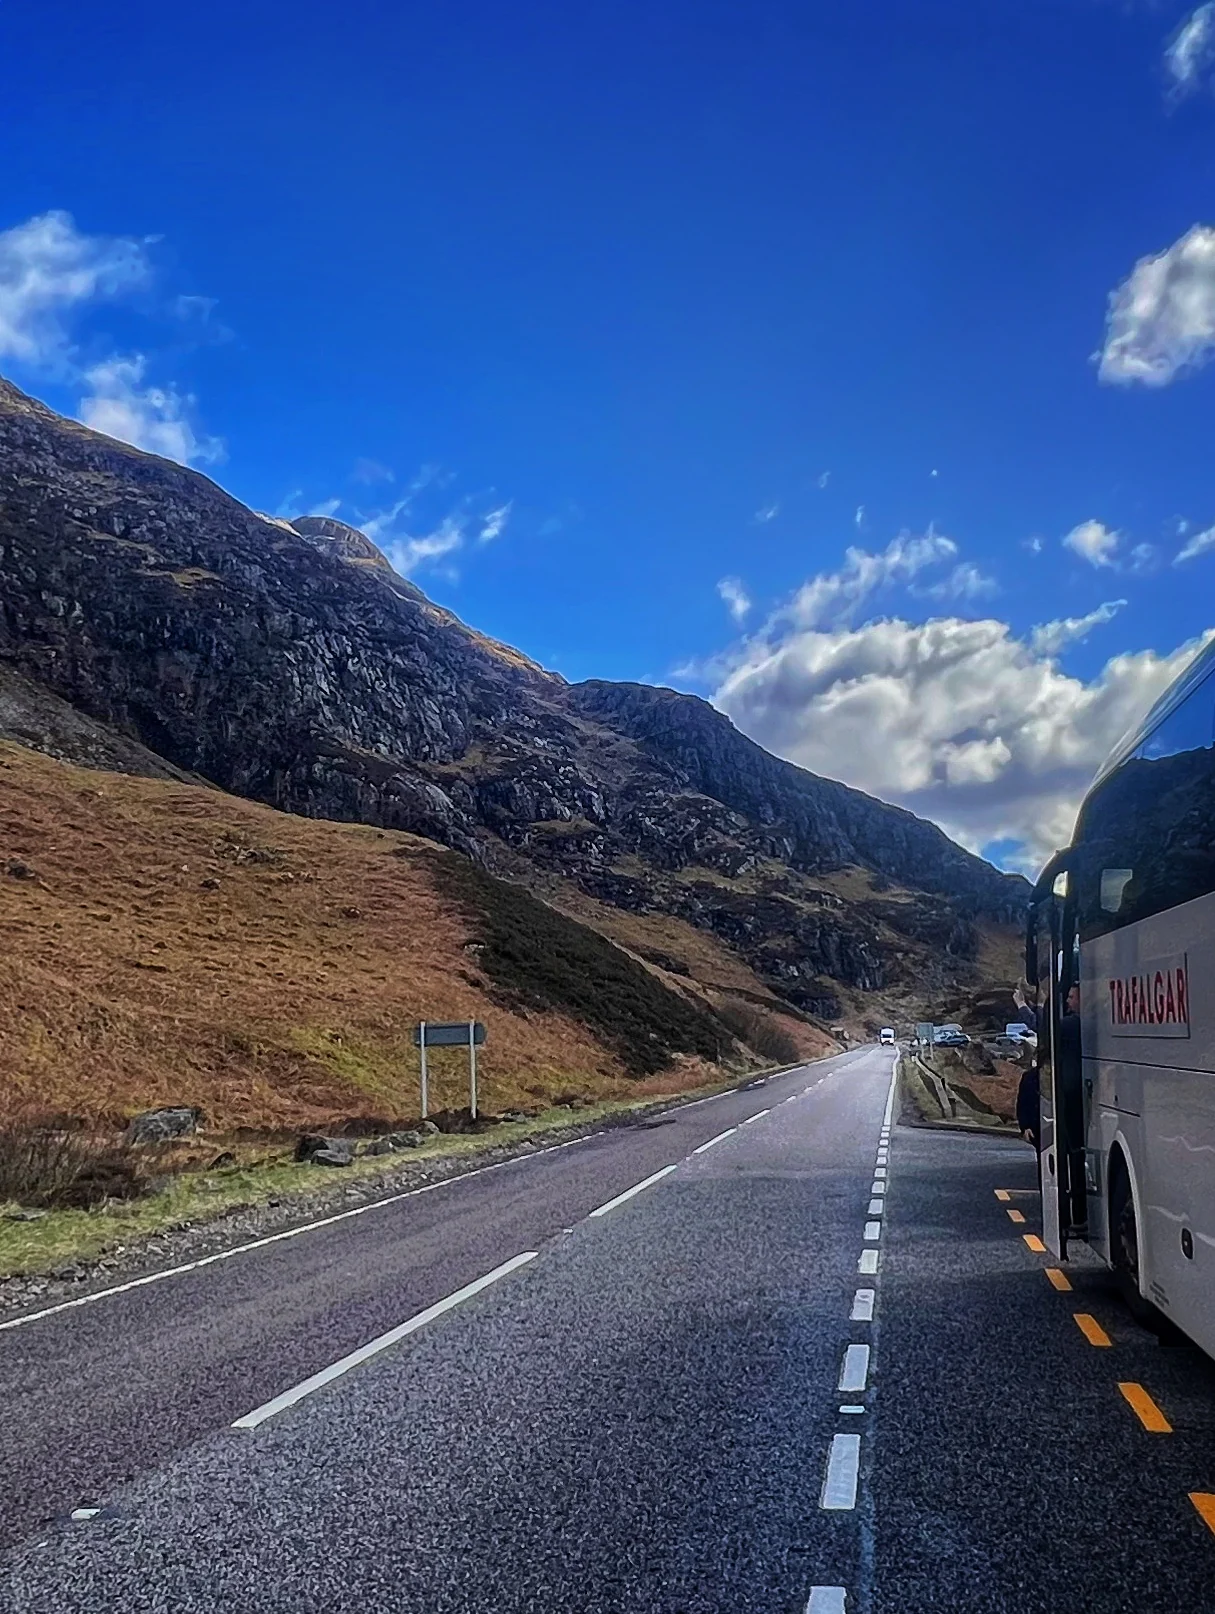
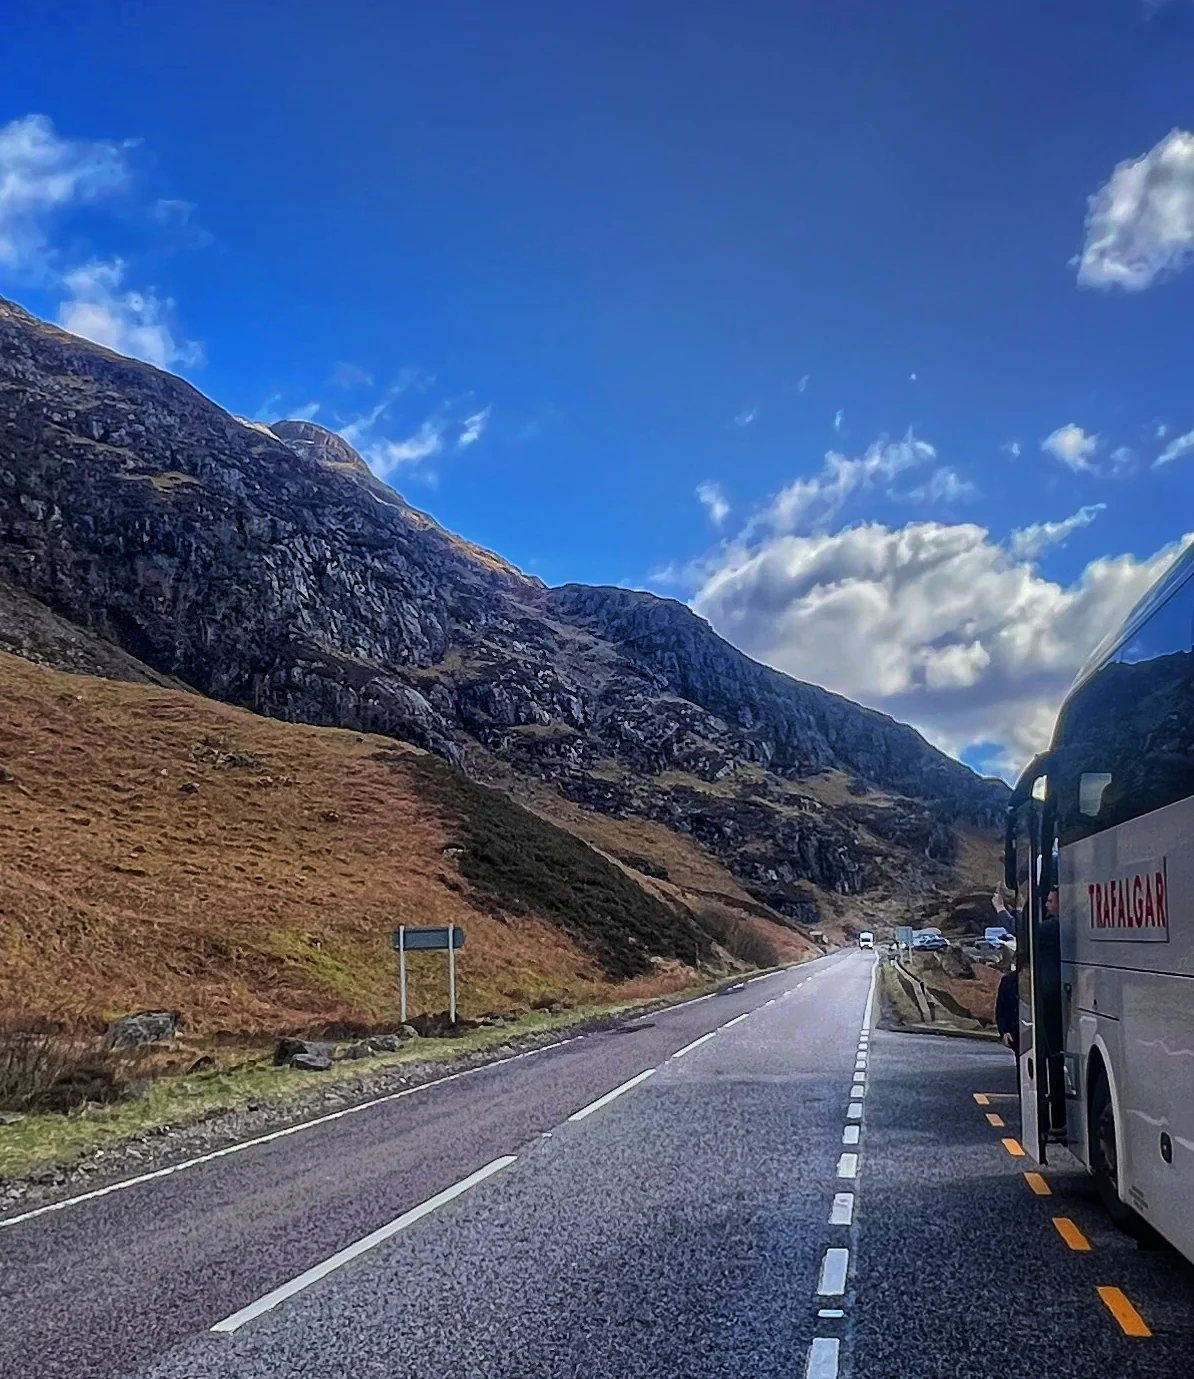
Update On The Road image with edited Glencoe frame and A82 caption

diff --git a/style.css b/style.css
@@ -685,6 +685,7 @@ h1 {
 .story-image-shell {
   min-height: 520px;
   background: #d8d0c4;
+  position: relative;
 }
 
 .story-image {
@@ -692,6 +693,29 @@ h1 {
   height: 100%;
   object-fit: cover;
   object-position: center;
+}
+
+.story-image-road {
+  object-position: center 56%;
+}
+
+.story-image-label {
+  position: absolute;
+  left: 0.95rem;
+  bottom: 0.95rem;
+  z-index: 1;
+  margin: 0;
+  padding: 0.34rem 0.6rem;
+  border-radius: 999px;
+  background: rgba(31, 42, 51, 0.48);
+  border: 1px solid rgba(255, 255, 255, 0.24);
+  backdrop-filter: blur(8px);
+  color: #f8fbff;
+  font-size: 0.7rem;
+  font-weight: 700;
+  letter-spacing: 0.06em;
+  text-transform: uppercase;
+  line-height: 1;
 }
 
 .story-copy {
@@ -1106,6 +1130,10 @@ h1 {
     min-height: 360px;
   }
 
+  .story-image-road {
+    object-position: center 58%;
+  }
+
   .gallery-card img {
     height: 300px;
   }
@@ -1188,6 +1216,13 @@ h1 {
 
   .story-copy {
     padding: 1.35rem;
+  }
+
+  .story-image-label {
+    left: 0.72rem;
+    bottom: 0.72rem;
+    font-size: 0.66rem;
+    padding: 0.31rem 0.52rem;
   }
 
   .region-image {

diff --git a/index.html b/index.html
@@ -165,10 +165,11 @@
         <div class="story-feature">
           <div class="story-image-shell">
             <img
-              class="story-image"
+              class="story-image story-image-road"
               src="images/site/joel-story-road-ahead-glencoe.webp"
               alt="Open road through Glencoe in the Scottish Highlands"
             />
+            <div class="story-image-label">A82 * Glencoe</div>
           </div>
 
           <div class="story-copy">
